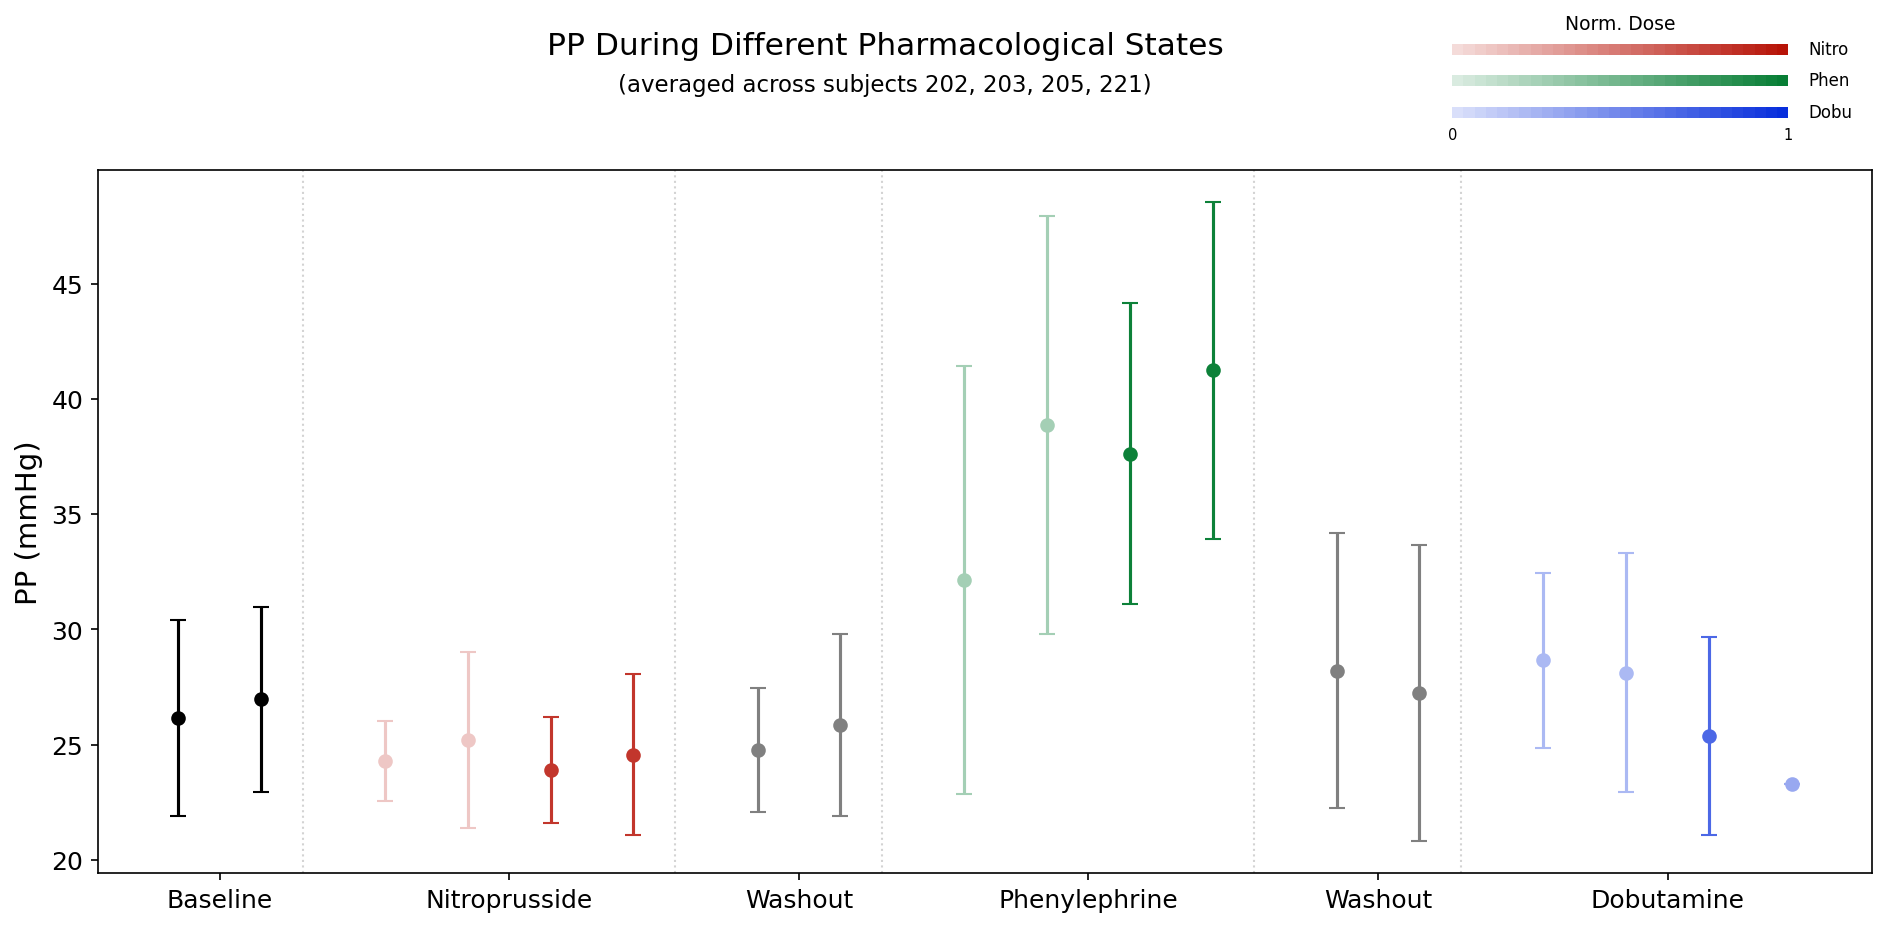
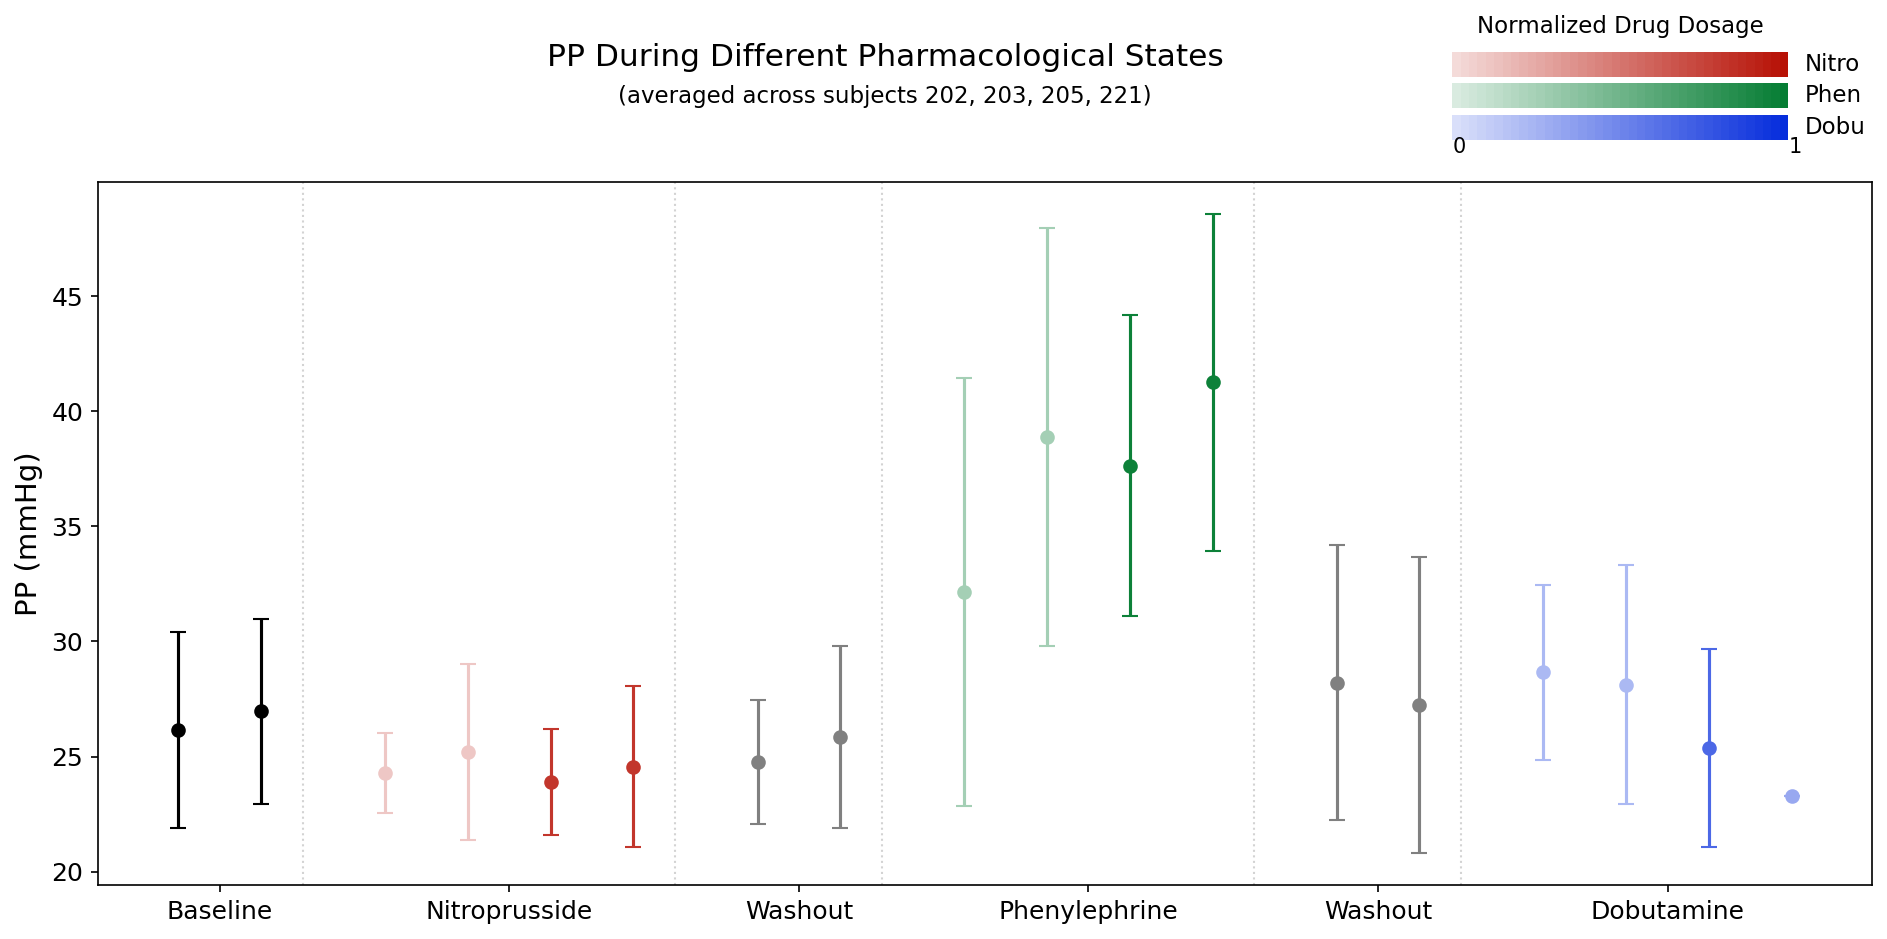
fresh run of run_pipeline.py -- all saved figures are now generated through the same run and data

diff --git a/fig_code/tdaicdiff_vs_metrics_plots.py b/fig_code/tdaicdiff_vs_metrics_plots.py
@@ -25,13 +25,6 @@ Save locations (once approved):
   figures/tdaicdiff_vs_metrics/{metric}.png       (6 files)
   figures/tdaicdiff_vs_metrics/all_metrics.png    (1 combined file)
 Code location: fig-code/tdaicdiff-vs-metrics-plots.py (this file)
-
-COSMETIC PASS per user feedback: dose-gradient legend shrunk (thin bars,
-small font) and moved to upper-right, aligned with the top of the main
-plot(s), instead of the old tall box. For the combined 6-subplot figure,
-axis labels/tick labels and the per-drug trendline equation text are
-smaller so they don't run into each other, and the shared legend is
-smaller/better placed.
 """
 
 from pathlib import Path
@@ -79,8 +72,7 @@ def _pooled_data(metric_prefix):
     return pd.concat(frames, ignore_index=True) if frames else pd.DataFrame()
 
 
-def _plot_metric_axis(ax, data, metric_prefix, xlabel, label_fontsize=14,
-                       tick_fontsize=None, eq_fontsize=9, point_size=35):
+def _plot_metric_axis(ax, data, metric_prefix, xlabel, point_size=35, eq_fontsize=9, label_fontsize=None):
     metric_col = f"{metric_prefix}_mean"
     eq_lines = []
     for drug in DRUGS:
@@ -100,16 +92,23 @@ def _plot_metric_axis(ax, data, metric_prefix, xlabel, label_fontsize=14,
     if eq_lines:
         ax.text(0.02, 0.02, "\n".join(eq_lines), transform=ax.transAxes,
                 fontsize=eq_fontsize, va="bottom", ha="left", color="black",
-                bbox=dict(facecolor="white", edgecolor="lightgray", alpha=0.85,
-                          boxstyle="round", pad=0.3))
+                bbox=dict(facecolor="white", edgecolor="lightgray", alpha=0.85, boxstyle="round"))
 
     ax.set_xlabel(xlabel, fontsize=label_fontsize)
     ax.set_ylabel("Diff (TD-AIC) (% change from baseline)", fontsize=label_fontsize)
-    if tick_fontsize is not None:
-        ax.tick_params(labelsize=tick_fontsize)
+    if label_fontsize is not None:
+        ax.tick_params(labelsize=label_fontsize - 1)
 
 
 def make_single_metric_figures(save=False, output_dir=None):
+    # Defensive: closes any leftover figure windows from a prior run in the
+    # same interactive session before drawing new ones. Without this, a
+    # window left open from an earlier `python fig_code/...py` invocation
+    # can bleed stale rendered elements (spines, text) into a newly-created
+    # figure -- observed directly: a partial axes spine (an L-shaped black
+    # line) cutting across the legend title in an interactive window, with
+    # no corresponding code path in this file that could draw it.
+    plt.close("all")
     figs = {}
     for metric_prefix, xlabel in METRICS:
         data = _pooled_data(metric_prefix)
@@ -117,9 +116,14 @@ def make_single_metric_figures(save=False, output_dir=None):
         _plot_metric_axis(ax, data, metric_prefix, xlabel)
         metric_name = xlabel.split(" (")[0]
         fig.suptitle(f"Diff (TD-AIC) % Change vs. {metric_name}\n(subjects 202, 203, 205, 221)", fontsize=14)
-        fig.subplots_adjust(right=0.80, top=0.85)
-        # Small legend, upper-right, top-aligned with the main plot (top=0.85).
-        add_dose_gradient_legend(fig, rect=[0.81, 0.72, 0.13, 0.11])
+        fig.subplots_adjust(right=0.68, top=0.85)
+        # Small, upper-right, aligned with the top of the main plot area.
+        # Deliberate, clearly-visible gap between the main plot's right
+        # border (0.68) and the legend's left edge (0.80) -- narrower box
+        # (0.11 wide, vs. the plot-hugging 0.13 used previously) keeps the
+        # text anchor point safely within figure bounds despite the shift.
+        legend_ax = fig.add_axes([0.85, 0.70, 0.10, 0.13])
+        add_dose_gradient_legend(fig, ax=legend_ax, title_fontsize=10)
         figs[metric_prefix] = fig
 
         if save:
@@ -135,18 +139,17 @@ def make_single_metric_figures(save=False, output_dir=None):
 
 
 def make_combined_figure(save=False, output_dir=None):
+    plt.close("all")
     fig, axes = plt.subplots(2, 3, figsize=(20, 12))
-    fig.suptitle("Diff (TD-AIC) % Change vs. Metrics\n(subjects 202, 203, 205, 221)", fontsize=16)
+    fig.suptitle("Diff (TD-AIC) % Change vs. Metrics\n(subjects 202, 203, 205, 221)", fontsize=13)
 
     for (metric_prefix, xlabel), ax in zip(METRICS, axes.flat):
         data = _pooled_data(metric_prefix)
-        _plot_metric_axis(ax, data, metric_prefix, xlabel,
-                           label_fontsize=9, tick_fontsize=8,
-                           eq_fontsize=6.5, point_size=20)
+        _plot_metric_axis(ax, data, metric_prefix, xlabel, point_size=18, eq_fontsize=7, label_fontsize=10)
 
-    fig.subplots_adjust(top=0.88, right=0.90, hspace=0.3, wspace=0.4)
-    # Small legend, upper-right corner, aligned with top of the subplot grid.
-    add_dose_gradient_legend(fig, rect=[0.91, 0.80, 0.06, 0.09])
+    fig.subplots_adjust(top=0.87, right=0.82, hspace=0.5, wspace=0.4)
+    legend_ax = fig.add_axes([0.84, 0.74, 0.10, 0.14])
+    add_dose_gradient_legend(fig, ax=legend_ax, label_fontsize=9, tick_fontsize=8, title_fontsize=9)
 
     if save:
         out_dir = Path(output_dir) if output_dir else REPO_ROOT / "figures" / "tdaicdiff_vs_metrics"
@@ -161,5 +164,5 @@ def make_combined_figure(save=False, output_dir=None):
 
 
 if __name__ == "__main__":
-    make_single_metric_figures(save=True)
-    make_combined_figure(save=True)
+    make_single_metric_figures(save=False)
+    make_combined_figure(save=False)

diff --git a/fig_code/fig_style.py b/fig_code/fig_style.py
@@ -121,7 +121,7 @@ def merge_p3_p6(df, value_cols):
     return pd.DataFrame(merged_rows)
 
 
-def add_dose_gradient_legend(fig, ax=None, loc="lower left"):
+def add_dose_gradient_legend(fig, ax=None, loc="lower left", label_fontsize=11, tick_fontsize=10, title_fontsize=11):
     """
     Adds the small 'Normalized Drug Dosage 0->1' gradient legend shown in
     the notes for figs 3/5/6 -- one horizontal gradient bar per drug.
@@ -137,9 +137,9 @@ def add_dose_gradient_legend(fig, ax=None, loc="lower left"):
             frac = j / n_steps
             ax.add_patch(Rectangle((frac, y), 1 / n_steps, 0.8,
                                     color=dose_gradient_color(drug, frac), linewidth=0))
-        ax.text(1.05, y + 0.4, drug, va="center", fontsize=11)
-    ax.text(0, -0.4, "0", fontsize=10)
-    ax.text(1, -0.4, "1", fontsize=10)
-    ax.set_title("Normalized Drug Dosage", fontsize=11)
+        ax.text(1.05, y + 0.4, drug, va="center", fontsize=label_fontsize)
+    ax.text(0, -0.4, "0", fontsize=tick_fontsize)
+    ax.text(1, -0.4, "1", fontsize=tick_fontsize)
+    ax.set_title("Normalized Drug Dosage", fontsize=title_fontsize)
     ax.axis("off")
     return ax

diff --git a/run_pipeline.py b/run_pipeline.py
@@ -314,6 +314,14 @@ def _generate_all_figures(repo_root):
     m.make_single_metric_figures(save=True)
     m.make_combined_figure(save=True)
 
+    print("  -> Metrics vs drugs, P6/P3-averaged (x6)...")
+    m = _load_fig_code_module("metrics_vs_drugs_p_averaged_plots.py")
+    m.make_all_metrics_vs_drugs_averaged_figures(save=True)
+
+    print("  -> TD-AIC difference across drugs, P6/P3-averaged...")
+    m = _load_fig_code_module("tdaicdiff_across_drugs_p_averaged_plots.py")
+    m.make_tdaicdiff_across_drugs_averaged_figure(save=True)
+
 
 def _generate_coarse_raw_data(repo_root, force=False):
     """

diff --git a/fig_code/tdaicdiff_across_drugs_p_averaged_plots.py b/fig_code/tdaicdiff_across_drugs_p_averaged_plots.py
@@ -145,4 +145,4 @@ def make_tdaicdiff_across_drugs_averaged_figure(save=False, output_dir=None):
 
 
 if __name__ == "__main__":
-    make_tdaicdiff_across_drugs_averaged_figure(save=True)
+    make_tdaicdiff_across_drugs_averaged_figure(save=False)

diff --git a/fig_code/metrics_vs_drugs_p_averaged_plots.py b/fig_code/metrics_vs_drugs_p_averaged_plots.py
@@ -151,4 +151,4 @@ def make_all_metrics_vs_drugs_averaged_figures(save=False, output_dir=None):
 
 
 if __name__ == "__main__":
-    make_all_metrics_vs_drugs_averaged_figures(save=True)
+    make_all_metrics_vs_drugs_averaged_figures(save=False)

diff --git a/fig_code/tdaicdiff_across_drugs_plots.py b/fig_code/tdaicdiff_across_drugs_plots.py
@@ -163,4 +163,4 @@ def make_tdaicdiff_across_drugs_figure(save=False, output_dir=None):
 
 
 if __name__ == "__main__":
-    make_tdaicdiff_across_drugs_figure(save=True)
+    make_tdaicdiff_across_drugs_figure(save=False)

diff --git a/fig_code/metrics_vs_drugs_plots.py b/fig_code/metrics_vs_drugs_plots.py
@@ -169,4 +169,4 @@ def make_all_metrics_vs_drugs_figures(save=False, output_dir=None):
 
 
 if __name__ == "__main__":
-    make_all_metrics_vs_drugs_figures(save=True)
+    make_all_metrics_vs_drugs_figures(save=False)

diff --git a/fig_code/baseline_plots.py b/fig_code/baseline_plots.py
@@ -113,4 +113,4 @@ def make_baseline_analysis_figure(save=False, output_dir=None):
 
 
 if __name__ == "__main__":
-    make_baseline_analysis_figure(save=True)
+    make_baseline_analysis_figure(save=False)

diff --git a/fig_code/ct_drug_effect_plots.py b/fig_code/ct_drug_effect_plots.py
@@ -173,4 +173,4 @@ def make_ct_drug_effect_figure(save=False, output_dir=None):
 
 
 if __name__ == "__main__":
-    make_ct_drug_effect_figure(save=True)
+    make_ct_drug_effect_figure(save=False)

diff --git a/fig_code/bland_altman_plots.py b/fig_code/bland_altman_plots.py
@@ -104,4 +104,4 @@ def make_bland_altman_figure(save=False, output_dir=None):
 
 
 if __name__ == "__main__":
-    make_bland_altman_figure(save=True)
+    make_bland_altman_figure(save=False)
